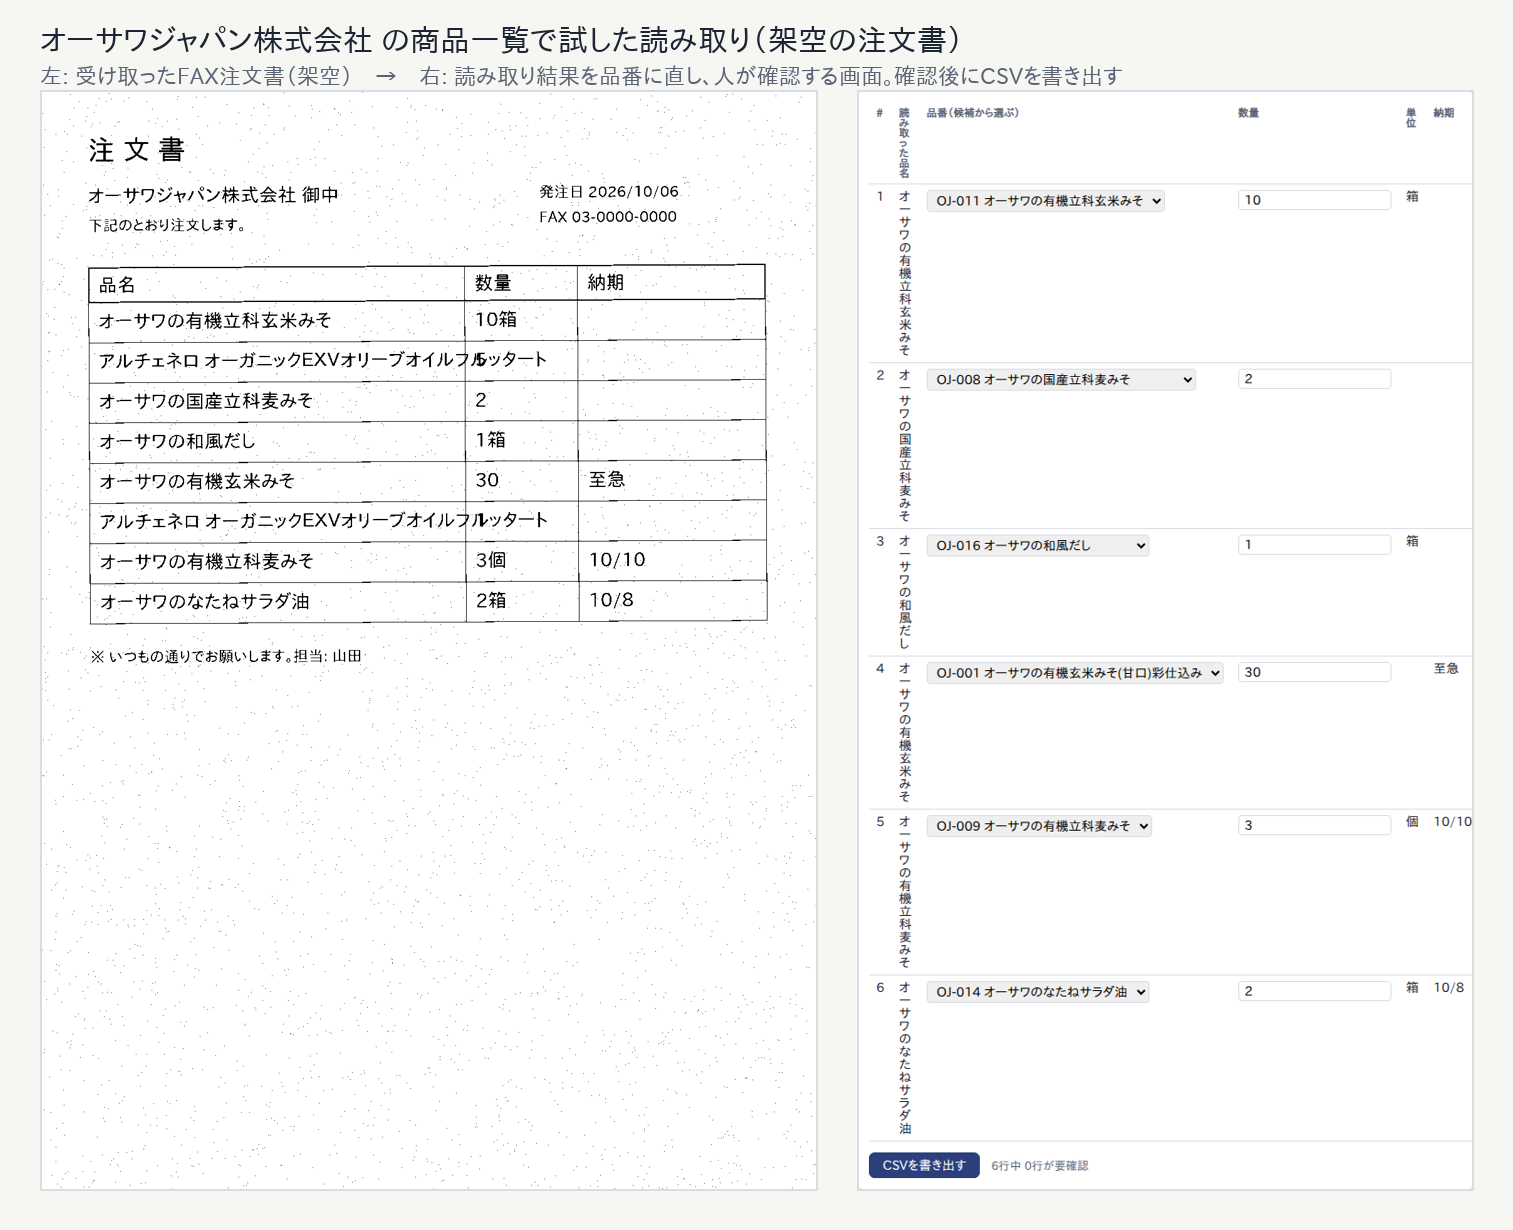
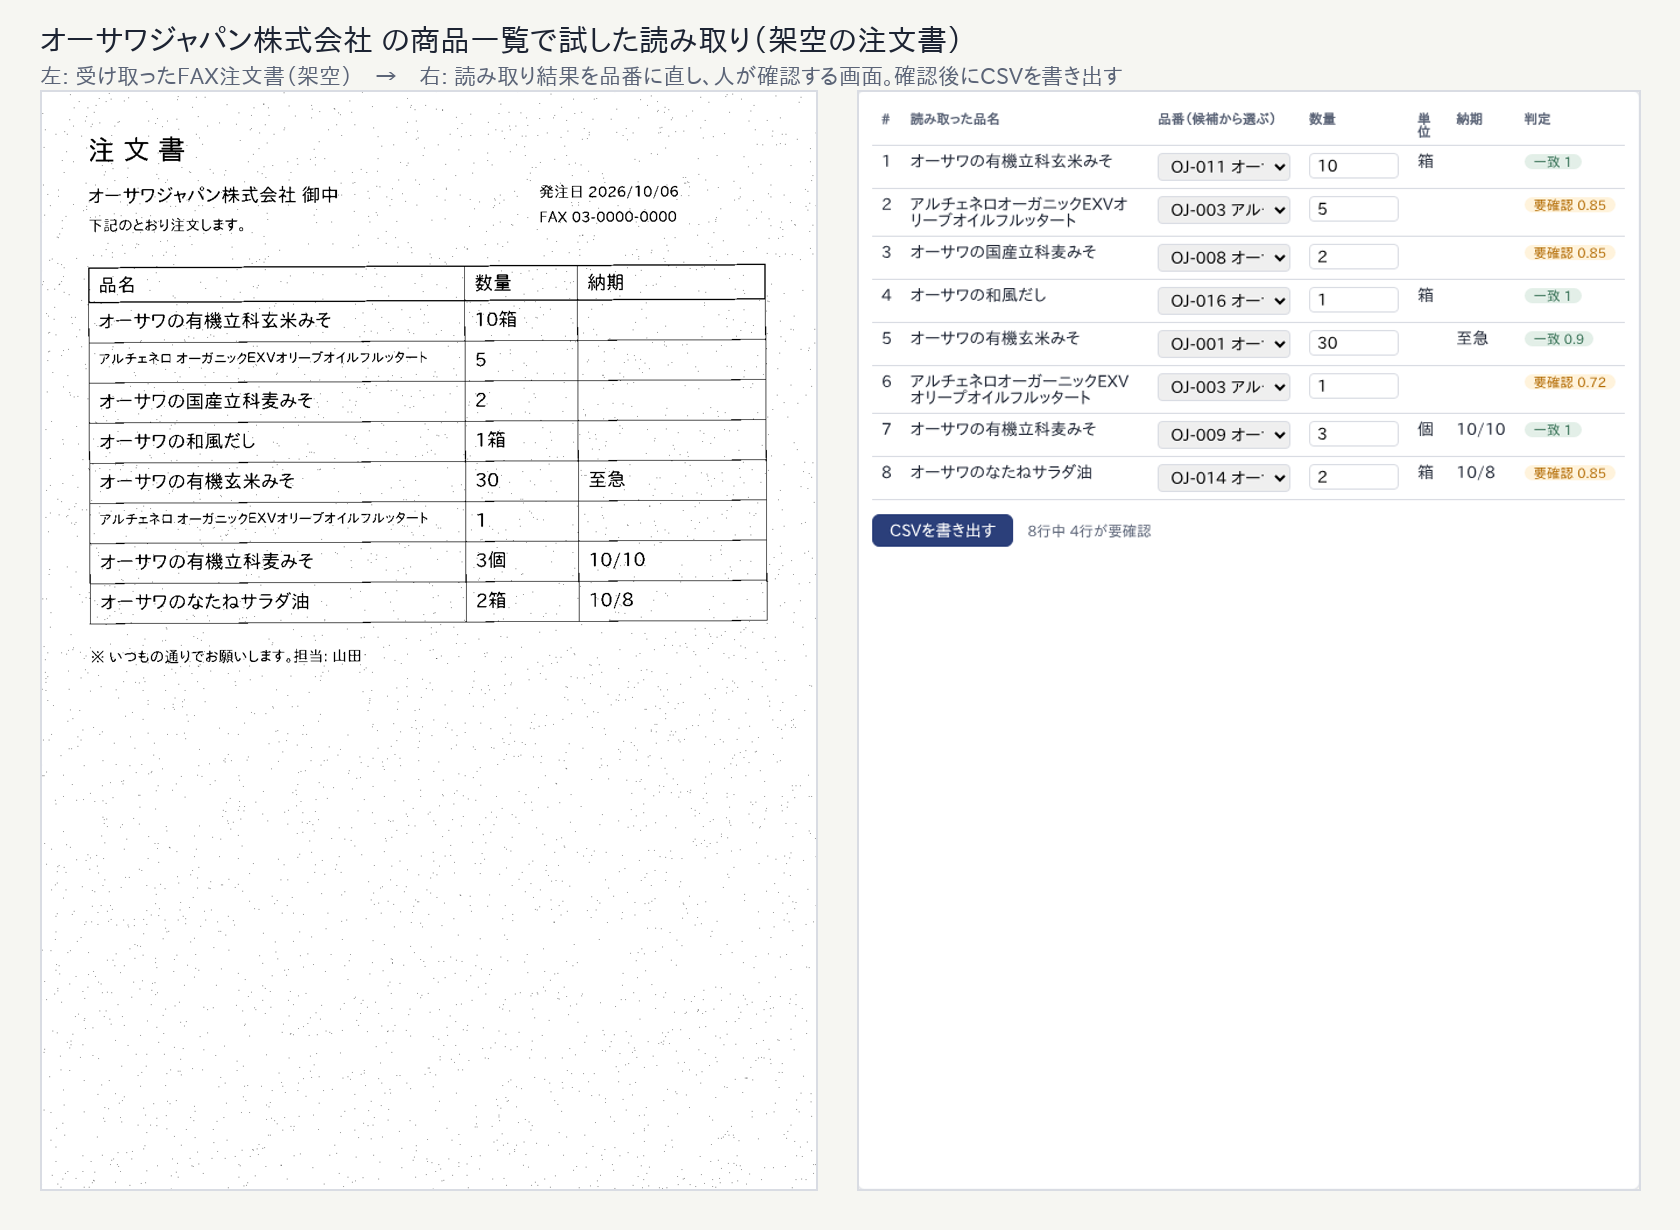
exp13: 長い品名をマスに収め（縮小か2行）、括弧の付記だけ違う品名を要確認にする。確認画面の列幅を直す
オーサワ: 読み取り6/8→8/8。3社とも自信を持って誤る行は0。company タスク#107

Claude-Session: https://claude.ai/code/session_01SBSvRQJEVdEmvZSFNjvh8z

diff --git a/exp13_faxorder/out/ohsawa/rev/review.html b/exp13_faxorder/out/ohsawa/rev/review.html
@@ -1,5 +1,5 @@
 <!doctype html><html lang="ja"><meta charset="utf-8"><meta name="viewport" content="width=device-width,initial-scale=1">
-<title>オーサワジャパン株式会社 宛の注文書（架空） 確認画面</title>
+<title>FAX注文書 確認画面</title>
 <style>
 :root{--bg:#f6f6f2;--sheet:#fff;--ink:#1d2433;--sub:#5b6477;--rule:#d9dce3;--ok:#2f6b4f;--ok-soft:#e3efe8;--warn:#b26a00;--warn-soft:#fff3dc;--bad:#b23a2a;--bad-soft:#f7e6e2;--indigo:#2b3f7a}
 body{margin:0;background:var(--bg);color:var(--ink);font-family:"IPAPGothic","Noto Sans CJK JP",system-ui,sans-serif;font-size:14px}
@@ -15,9 +15,11 @@ th{font-size:11.5px;color:var(--sub)} td.n{text-align:right;font-variant-numeric
 select,input{font:inherit;padding:3px 6px;border:1px solid var(--rule);border-radius:4px;max-width:100%}
 .foot{display:flex;gap:12px;align-items:center;margin-top:12px} button{font:inherit;padding:6px 14px;border-radius:6px;border:1px solid var(--indigo);background:var(--indigo);color:#fff;cursor:pointer}
 .stat{color:var(--sub);font-size:12.5px}
+td:nth-child(2){min-width:8em} td:nth-child(3){max-width:20em} td:nth-child(3) select{width:100%}
+input[type=number]{width:4.5em} .b,td:nth-child(5),td:nth-child(6){white-space:nowrap}
 @media(max-width:900px){main{grid-template-columns:1fr}}
 </style>
-<header><h1>オーサワジャパン株式会社 宛の注文書（架空）</h1><span class="sub">読み取り結果の確認 → 直す → CSVを書き出す（販売管理に取り込む）</span></header>
+<header><h1>FAX注文書</h1><span class="sub">読み取り結果の確認 → 直す → CSVを書き出す（販売管理に取り込む）</span></header>
 <main>
 <section class="pane"><img src="../fax.png" alt="受け取ったFAX注文書"></section>
 <section class="pane">
@@ -25,7 +27,7 @@ select,input{font:inherit;padding:3px 6px;border:1px solid var(--rule);border-ra
 <div class="foot"><button id="dl">CSVを書き出す</button><span class="stat" id="stat"></span></div>
 </section></main>
 <script>
-const CAT={"OJ-001": "オーサワの有機玄米みそ(甘口)彩仕込み", "OJ-002": "アルチェネロ オーガニックＥＸＶオリーブオイルフルッタート", "OJ-003": "アルチェネロ オーガニックＥＸＶオリーブオイルフルッタート", "OJ-004": "オーサワの有機立科米みそ", "OJ-005": "オーサワの国産立科あわせみそ", "OJ-006": "オーサワの国産立科あわせみそ", "OJ-007": "オーサワの国産立科麦みそ(箱入り)", "OJ-008": "オーサワの国産立科麦みそ", "OJ-009": "オーサワの有機立科麦みそ", "OJ-010": "オーサワの有機立科豆みそ", "OJ-011": "オーサワの有機立科玄米みそ", "OJ-012": "オーサワの茜醤油(ペットボトル)", "OJ-013": "オーサワのなたねサラダ油", "OJ-014": "オーサワのなたねサラダ油", "OJ-015": "オーガニックフラックスシードオイル(有機亜麻仁油)", "OJ-016": "オーサワの和風だし"}; const ROWS=[{"品名_読み取り": "オーサワの有機立科玄米みそ", "数量": 10, "単位": "箱", "納期": "", "品番": "OJ-011", "確度": 1.0, "根拠": "一致", "候補": ["OJ-011", "OJ-004", "OJ-010"], "読み取り確度": 67.6}, {"品名_読み取り": "オーサワの国産立科麦みそ", "数量": 2, "単位": "", "納期": "", "品番": "OJ-008", "確度": 1.0, "根拠": "一致", "候補": ["OJ-008", "OJ-007", "OJ-006"], "読み取り確度": 72.1}, {"品名_読み取り": "オーサワの和風だし", "数量": 1, "単位": "箱", "納期": "", "品番": "OJ-016", "確度": 1.0, "根拠": "一致", "候補": ["OJ-016", "OJ-014", "OJ-013"], "読み取り確度": 67.6}, {"品名_読み取り": "オーサワの有機玄米みそ", "数量": 30, "単位": "", "納期": "至急", "品番": "OJ-001", "確度": 0.9, "根拠": "一致", "候補": ["OJ-001", "OJ-011", "OJ-004"], "読み取り確度": 94.4}, {"品名_読み取り": "オーサワの有機立科麦みそ", "数量": 3, "単位": "個", "納期": "10/10", "品番": "OJ-009", "確度": 1.0, "根拠": "一致", "候補": ["OJ-009", "OJ-010", "OJ-004"], "読み取り確度": 90.2}, {"品名_読み取り": "オーサワのなたねサラダ油", "数量": 2, "単位": "箱", "納期": "10/8", "品番": "OJ-014", "確度": 1.0, "根拠": "一致", "候補": ["OJ-014", "OJ-013", "OJ-016"], "読み取り確度": 90.8}];
+const CAT={"OJ-001": "オーサワの有機玄米みそ(甘口)彩仕込み", "OJ-002": "アルチェネロ オーガニックＥＸＶオリーブオイルフルッタート", "OJ-003": "アルチェネロ オーガニックＥＸＶオリーブオイルフルッタート", "OJ-004": "オーサワの有機立科米みそ", "OJ-005": "オーサワの国産立科あわせみそ", "OJ-006": "オーサワの国産立科あわせみそ", "OJ-007": "オーサワの国産立科麦みそ(箱入り)", "OJ-008": "オーサワの国産立科麦みそ", "OJ-009": "オーサワの有機立科麦みそ", "OJ-010": "オーサワの有機立科豆みそ", "OJ-011": "オーサワの有機立科玄米みそ", "OJ-012": "オーサワの茜醤油(ペットボトル)", "OJ-013": "オーサワのなたねサラダ油", "OJ-014": "オーサワのなたねサラダ油", "OJ-015": "オーガニックフラックスシードオイル(有機亜麻仁油)", "OJ-016": "オーサワの和風だし"}; const ROWS=[{"品名_読み取り": "オーサワの有機立科玄米みそ", "数量": 10, "単位": "箱", "納期": "", "品番": "OJ-011", "確度": 1.0, "根拠": "一致", "候補": ["OJ-011", "OJ-004", "OJ-010"], "読み取り確度": 83.2}, {"品名_読み取り": "アルチェネロオーガニックEXVオリーブオイルフルッタート", "数量": 5, "単位": "", "納期": "", "品番": "OJ-003", "確度": 0.85, "根拠": "あいまい", "候補": ["OJ-003", "OJ-002", "OJ-015"], "読み取り確度": 95.3}, {"品名_読み取り": "オーサワの国産立科麦みそ", "数量": 2, "単位": "", "納期": "", "品番": "OJ-008", "確度": 0.85, "根拠": "あいまい", "候補": ["OJ-008", "OJ-007", "OJ-006"], "読み取り確度": 66.8}, {"品名_読み取り": "オーサワの和風だし", "数量": 1, "単位": "箱", "納期": "", "品番": "OJ-016", "確度": 1.0, "根拠": "一致", "候補": ["OJ-016", "OJ-014", "OJ-013"], "読み取り確度": 69.4}, {"品名_読み取り": "オーサワの有機玄米みそ", "数量": 30, "単位": "", "納期": "至急", "品番": "OJ-001", "確度": 0.9, "根拠": "一致", "候補": ["OJ-001", "OJ-011", "OJ-004"], "読み取り確度": 91.9}, {"品名_読み取り": "アルチェネロオーガーニックEXVオリープオイルフルッタート", "数量": 1, "単位": "", "納期": "", "品番": "OJ-003", "確度": 0.72, "根拠": "あいまい", "候補": ["OJ-003", "OJ-002", "OJ-015"], "読み取り確度": 90.8}, {"品名_読み取り": "オーサワの有機立科麦みそ", "数量": 3, "単位": "個", "納期": "10/10", "品番": "OJ-009", "確度": 1.0, "根拠": "一致", "候補": ["OJ-009", "OJ-010", "OJ-004"], "読み取り確度": 90.0}, {"品名_読み取り": "オーサワのなたねサラダ油", "数量": 2, "単位": "箱", "納期": "10/8", "品番": "OJ-014", "確度": 0.85, "根拠": "あいまい", "候補": ["OJ-014", "OJ-013", "OJ-016"], "読み取り確度": 92.6}];
 const tb=document.getElementById('rows');
 function badge(r){const c=r.確度>=0.9?'ok':r.確度>=0.6?'warn':'bad';const t=r.確度>=0.9?'一致':r.確度>=0.6?'要確認':'不明';return `<span class="b ${c}">${t} ${r.確度}</span>`}
 ROWS.forEach((r,i)=>{const tr=document.createElement('tr');

diff --git a/exp13_faxorder/out/fujipanko/rev/review.html b/exp13_faxorder/out/fujipanko/rev/review.html
@@ -1,5 +1,5 @@
 <!doctype html><html lang="ja"><meta charset="utf-8"><meta name="viewport" content="width=device-width,initial-scale=1">
-<title>富士パン粉工業株式会社 宛の注文書（架空） 確認画面</title>
+<title>FAX注文書 確認画面</title>
 <style>
 :root{--bg:#f6f6f2;--sheet:#fff;--ink:#1d2433;--sub:#5b6477;--rule:#d9dce3;--ok:#2f6b4f;--ok-soft:#e3efe8;--warn:#b26a00;--warn-soft:#fff3dc;--bad:#b23a2a;--bad-soft:#f7e6e2;--indigo:#2b3f7a}
 body{margin:0;background:var(--bg);color:var(--ink);font-family:"IPAPGothic","Noto Sans CJK JP",system-ui,sans-serif;font-size:14px}
@@ -15,9 +15,11 @@ th{font-size:11.5px;color:var(--sub)} td.n{text-align:right;font-variant-numeric
 select,input{font:inherit;padding:3px 6px;border:1px solid var(--rule);border-radius:4px;max-width:100%}
 .foot{display:flex;gap:12px;align-items:center;margin-top:12px} button{font:inherit;padding:6px 14px;border-radius:6px;border:1px solid var(--indigo);background:var(--indigo);color:#fff;cursor:pointer}
 .stat{color:var(--sub);font-size:12.5px}
+td:nth-child(2){min-width:8em} td:nth-child(3){max-width:20em} td:nth-child(3) select{width:100%}
+input[type=number]{width:4.5em} .b,td:nth-child(5),td:nth-child(6){white-space:nowrap}
 @media(max-width:900px){main{grid-template-columns:1fr}}
 </style>
-<header><h1>富士パン粉工業株式会社 宛の注文書（架空）</h1><span class="sub">読み取り結果の確認 → 直す → CSVを書き出す（販売管理に取り込む）</span></header>
+<header><h1>FAX注文書</h1><span class="sub">読み取り結果の確認 → 直す → CSVを書き出す（販売管理に取り込む）</span></header>
 <main>
 <section class="pane"><img src="../fax.png" alt="受け取ったFAX注文書"></section>
 <section class="pane">

diff --git a/exp13_faxorder/pipeline.py b/exp13_faxorder/pipeline.py
@@ -168,6 +168,11 @@ def norm(s: str) -> str:
     return re.sub(r"[\s・･\-ー—（）()\[\]【】/,、。]", "", s)
 
 
+def base(name: str) -> str:
+    """括弧の付記を落とした品名（比べる用）"""
+    return norm(re.sub(r"[(（][^)）]*[)）]", "", name))
+
+
 class Matcher:
     def __init__(self, catalog: list[dict], aliases: dict[str, str]):
         self.catalog = catalog
@@ -195,9 +200,10 @@ class Matcher:
         scored.sort(reverse=True)
         top = scored[:3]
         best = top[0] if top else (0.0, "")
-        # 同じ品名で規格だけ違う候補が並ぶときは、人に選ばせる（650g と 3kg の取り違えを防ぐ）
+        # 同じ品名で規格だけ違う候補が並ぶときは、人に選ばせる（650g と 3kg の取り違えを防ぐ）。
+        # 「(箱入り)」のような括弧の付記だけが違う品名も同じ扱い——FAXでは括弧ごと省かれる
         if len(top) >= 2 and best[0] >= 0.9 and top[1][0] >= 0.9 \
-                and self.by_code[top[0][1]]["品名"] == self.by_code[top[1][1]]["品名"]:
+                and base(self.by_code[top[0][1]]["品名"]) == base(self.by_code[top[1][1]]["品名"]):
             best = (0.85, best[1])
         return dict(品番=best[1] if best[0] >= 0.6 else "", 確度=round(best[0], 2),
                     根拠="一致" if best[0] >= 0.9 else "あいまい" if best[0] >= 0.6 else "不明",
@@ -226,6 +232,8 @@ th{{font-size:11.5px;color:var(--sub)}} td.n{{text-align:right;font-variant-nume
 select,input{{font:inherit;padding:3px 6px;border:1px solid var(--rule);border-radius:4px;max-width:100%}}
 .foot{{display:flex;gap:12px;align-items:center;margin-top:12px}} button{{font:inherit;padding:6px 14px;border-radius:6px;border:1px solid var(--indigo);background:var(--indigo);color:#fff;cursor:pointer}}
 .stat{{color:var(--sub);font-size:12.5px}}
+td:nth-child(2){{min-width:8em}} td:nth-child(3){{max-width:20em}} td:nth-child(3) select{{width:100%}}
+input[type=number]{{width:4.5em}} .b,td:nth-child(5),td:nth-child(6){{white-space:nowrap}}
 @media(max-width:900px){{main{{grid-template-columns:1fr}}}}
 </style>
 <header><h1>{html.escape(title)}</h1><span class="sub">読み取り結果の確認 → 直す → CSVを書き出す（販売管理に取り込む）</span></header>

diff --git a/exp13_faxorder/make_fax.py b/exp13_faxorder/make_fax.py
@@ -32,6 +32,28 @@ def alias(name: str, rng: random.Random) -> str:
     return n.replace(" ", "").replace("・", "")
 
 
+def fit(d, text: str, width: int, size: int = 30, floor: int = 22):
+    """マスに収まる書き方を返す: (行のリスト, フォント)。
+
+    人は長い品名を、字を小さくするか2行に折ってマスに収める。はみ出させない。
+    まず1行のまま floor まで小さくし、それでも入らなければ2行に折る
+    """
+    for sz in range(size, floor - 1, -2):
+        f = ImageFont.truetype(FONT, sz)
+        if d.textlength(text, font=f) <= width:
+            return [text], f
+    for sz in range(26, floor - 1, -2):
+        f = ImageFont.truetype(FONT, sz)
+        cut = len(text) // 2
+        sp = text.rfind(" ", 0, cut + 4)
+        if sp > cut // 2:
+            cut = sp
+        a, b = text[:cut].strip(), text[cut:].strip()
+        if max(d.textlength(a, font=f), d.textlength(b, font=f)) <= width:
+            return [a, b], f
+    return [text[: len(text) // 2], text[len(text) // 2 :]], ImageFont.truetype(FONT, floor)
+
+
 def main():
     ap = argparse.ArgumentParser()
     ap.add_argument("catalog")
@@ -70,7 +92,12 @@ def main():
         due = rng.choice(["", "", "10/8", "10/10", "至急", "来週"])
         shown = alias(it["品名"], rng)
         d.rectangle([left, y, right, y + 64], outline=0, width=1)
-        d.text((cols[0] + 16, y + 14), shown, font=f, fill=0)
+        lines, fn = fit(d, shown, cols[1] - cols[0] - 32)
+        if len(lines) == 1:
+            d.text((cols[0] + 16, y + 14), lines[0], font=fn, fill=0)
+        else:
+            for k, t in enumerate(lines):
+                d.text((cols[0] + 16, y + 4 + k * 28), t, font=fn, fill=0)
         d.text((cols[1] + 16, y + 14), f"{qty}{unit}", font=f, fill=0)
         d.text((cols[2] + 16, y + 14), due, font=f, fill=0)
         truth.append(dict(shown=shown, 品番=it["品番"], 品名=it["品名"], 数量=qty, 単位=unit, 納期=due))

diff --git a/exp13_faxorder/README.md b/exp13_faxorder/README.md
@@ -9,7 +9,7 @@
 | `compose.py` | 「前後」の1枚絵（左: FAX、右: 確認画面のスクリーンショット） |
 | `sample/catalog*.csv` | 架空の商品一覧（30点）と、公開サイトから取った商品名（富士パン粉工業31点・オーサワジャパン16点。品番は仮） |
 
-初回の結果（架空の注文書8行）: 架空30点で 8行すべて読み取り・品番一致6/8（残りはOCRの文字化けで候補1位が正解）、富士パン粉で 8/8読み取り・7/8一致、オーサワで 6/8読み取り（長い品名が列からはみ出した2行を落とす）。
+結果（架空の注文書8行）: 架空30点で 読み取り8/8・自動で品番が当たる6・要確認2、富士パン粉で 8/8・7・1、オーサワで 8/8・4・4。3つとも「自信を持って誤る」行は0（同名で規格違い、括弧の付記だけ違う品名は人に選ばせる）。長い品名は、人が書くように字を小さくするか2行に折ってマスに収める。
 読み取り部は画像を読むAI（API）に差し替えられる形。自分の仕組みは、辞書・確認画面・CSV・前後の絵。
 
 ## 守ること
